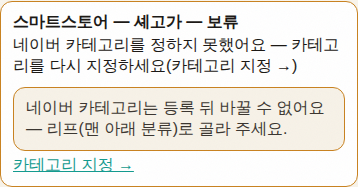
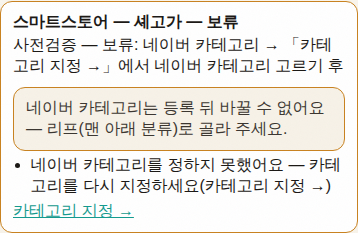
Y7-B: 카테고리 보류를 준비 보류 목록에 합침 — 번역 보류와 같이 보여 자동 번역이 막히지 않게 · 옛 최상위 표를 박던 계약 3건 갱신
전체 스위트 1차(a96c21eb) 5 failed:
- test_x_woojoo_canary 2건: 카테고리 보류가 먼저 return해 「번역하고 다시 검증」 자동 번역이 안 돌았다 → readiness_holds에 합침(카테고리만이면 사유코드 category_unset/not_leaf, 링크 「카테고리 지정 →」)
- test_uploaders 2건·test_verify_market_connections 1건: 옛 CATEGORY_MAP(최상위 ID)을 박던 계약 / 카테고리 없는 픽스처 → 오너 지정 리프로

Claude-Session: https://claude.ai/code/session_01PxGVkp5f6YphwkqMwzi5ZE

diff --git a/src/seller_console/upload_dispatcher.py b/src/seller_console/upload_dispatcher.py
@@ -694,6 +694,8 @@ def readiness_message(holds: List[Dict[str, str]]) -> str:
         fixes.append("편집 화면에서 판매가 직접 입력")
     if any(h["fix"] == "ship_ratio" for h in holds):
         fixes.append("원가·크기를 확인하거나 「그래도 등록」")
+    if any(h["fix"] == "naver_category" for h in holds):
+        fixes.append("「카테고리 지정 →」에서 네이버 카테고리 고르기")
     if any(h["fix"] == "rep_image" for h in holds):
         fixes.append("「쿠팡 노출」 탭에서 대표 사진을 바꾸거나 「그래도 등록」")
     if any(h["fix"] == "voltage" for h in holds):
@@ -709,6 +711,8 @@ def readiness_hint(holds: List[Dict[str, str]]) -> str:
         out.append("외화 원가는 편집 화면 ‘원화로 환산’ 버튼으로 원화 판매가를 채울 수도 있어요.")
     if any(h["fix"] == "translate" for h in holds):
         out.append("편집 화면의 「한국어 번역」을 누르거나 값을 직접 넣어 주세요.")
+    if any(h["fix"] == "naver_category" for h in holds):
+        out.append("네이버 카테고리는 등록 뒤 바꿀 수 없어요 — 리프(맨 아래 분류)로 골라 주세요.")
     return " ".join(out)
 
 
@@ -867,6 +871,17 @@ class UploadDispatcher:
             price = float(price_raw) if price_raw not in (None, "") else None
         except (TypeError, ValueError):
             price = None
+        # Y7-B: 네이버 리프 카테고리 — 못 정했거나 리프가 아니면 보류(번역 등 다른 보류와 **같이** 보인다 —
+        #   먼저 막아 버리면 「번역하고 다시 검증」 자동 번역이 돌지 않는다). 등록 업로더도 같은 판정을 한 번 더 한다.
+        if market == "smartstore":
+            try:
+                from src.uploaders import naver_categories as _ncat
+                from .market_cred_view import current_naver_account as _cna_r
+                _nch = _ncat.hold(pd, account=_cna_r() or "")
+            except Exception:
+                _nch = None
+            if _nch:
+                holds.append({"short": "네이버 카테고리", "fix": "naver_category", "code": _nch["code"], "line": _nch["line"]})
         if price is None or price <= 0:
             holds.append({"short": "판매가 없음", "fix": "pc",
                           "line": "판매가가 0이거나 비어 있어요 — 원가를 읽어야 판매가를 낼 수 있어요"
@@ -1010,14 +1025,6 @@ class UploadDispatcher:
                         market=market, ok=False, hold=True, error_code="smartstore_limit_full",
                         message=f"보류: 스토어 한도 — {_lim['limit']:,} 도달 ({_lim['text']}) · 다른 마켓은 그대로 진행돼요",
                         hint="스토어당 판매중·판매대기·품절 합계 1,000이 상한이에요 — 자리가 생기면 다시 사전검증해 주세요.")
-            # Y7-B: 리프 카테고리 — 못 정했거나 리프가 아니면 보내지 않는다(등록과 같은 판정 `naver_categories.hold`).
-            from src.uploaders import naver_categories as _ncat
-            _nch = _ncat.hold(product_data, account=_st or "")
-            if _nch:
-                return PrevalidationResult(market=market, ok=False, hold=True, error_code=_nch["code"], message=_nch["line"],
-                                           fixes=["naver_category"],
-                                           action_url=_ncat.picker_url(str(product_data.get("item_id") or "")),
-                                           hint="네이버 카테고리는 등록 뒤 바꿀 수 없어요 — 리프(맨 아래 분류)로 골라 주세요.")
             # Y7: 조합형 옵션 — 축 2개·조합 상한을 넘으면 보내지 않는다(등록과 같은 판정 `naver_options.limit_hold`).
             from src.uploaders.naver_options import limit_hold as _ol, REASON_LIMIT as _OL
             _olh = _ol(product_data)
@@ -1131,12 +1138,20 @@ class UploadDispatcher:
         #   못 채웠으면 「막힘」이 아니라 **보류**(보강·번역하면 풀린다)로 말하고 등록 버튼은 열리지 않는다.
         holds = self.readiness_holds(product_data, market)
         if holds:
+            # Y7-B: 카테고리 보류만 있으면 그 사유코드(category_unset·category_not_leaf) · 「카테고리 지정 →」 링크
+            _cat = [h for h in holds if h.get("fix") == "naver_category"]
+            _url = ""
+            if _cat:
+                from src.uploaders.naver_categories import picker_url as _pick_url
+                _url = _pick_url(str(product_data.get("item_id") or ""))
             return PrevalidationResult(
-                market=market, ok=False, error_code="missing_field", hold=True,
+                market=market, ok=False, hold=True,
+                error_code=(_cat[0]["code"] if _cat and len(holds) == 1 else "missing_field"),
                 message=readiness_message(holds),
                 hint=readiness_hint(holds),
                 details=[h["line"] for h in holds],
                 fixes=list(dict.fromkeys(h.get("fix", "") for h in holds if h.get("fix"))),
+                action_url=_url,
             )
 
         # 이미지 URL 접근성 (첫 번째 이미지만 HEAD 체크, 타임아웃 3초)
@@ -1269,9 +1284,10 @@ class UploadDispatcher:
         # U0b: 스마트스토어 미승인·한도 꽉 참·고단가 기준 미달은 사전검증과 **같은 판정**으로 전송 전 보류(직접 호출 우회 0).
         if market == "smartstore":
             _pv = self._prevalidate_market(product_data, market)
-            if not _pv.ok and _pv.error_code in ("smartstore_token_failed", "smartstore_limit_full",
-                                                 "smartstore_price_floor", "option_limit",
-                                                 "category_not_leaf", "category_unset"):
+            if not _pv.ok and (_pv.error_code in ("smartstore_token_failed", "smartstore_limit_full",
+                                                  "smartstore_price_floor", "option_limit",
+                                                  "category_not_leaf", "category_unset")
+                               or "naver_category" in (_pv.fixes or [])):
                 return UploadResult(market=market, success=False, error_code=_pv.error_code,
                                     message=f"전송 전에 보류했습니다 — {_pv.message}", hint=_pv.hint,
                                     action_url=_pv.action_url)

diff --git a/tests/test_y7b_naver_category.py b/tests/test_y7b_naver_category.py
@@ -157,15 +157,29 @@ def test_prevalidate_holds_before_naver(monkeypatch, tree):
     from src.seller_console import smartstore_routing as SR
     monkeypatch.setattr(UD, "smartstore_approved", lambda store="": True)
     monkeypatch.setattr(SR, "price_hold", lambda pd: "")
+    monkeypatch.setenv("NAVER_CLIENT_ID", "id")
+    monkeypatch.setenv("NAVER_CLIENT_SECRET", "sec")
+    monkeypatch.setenv("NAVER_IMAGE_UPLOAD", "0")
     pv = UD.UploadDispatcher()._prevalidate_market(_pleats(), "smartstore")
-    assert pv.hold and pv.error_code == "category_unset" and pv.fixes == ["naver_category"]
+    assert pv.hold and pv.error_code == "category_unset" and pv.fixes == ["naver_category"], pv
+    assert "카테고리를 다시 지정하세요(카테고리 지정 →)" in " ".join(pv.details)
     assert pv.action_url == "/seller/collect/it-1/naver-category"
     pv2 = UD.UploadDispatcher()._prevalidate_market(_pleats(naver_category_id=PARENT), "smartstore")
     assert pv2.error_code == "category_not_leaf"
     r = UD.UploadDispatcher()._dispatch_one(_pleats(), "smartstore")
     assert r.success is False and r.error_code == "category_unset" and r.action_url.endswith("/naver-category")
     ok = UD.UploadDispatcher()._prevalidate_market(_pleats(naver_category_id=LEAF), "smartstore")
-    assert ok.error_code not in ("category_unset", "category_not_leaf")
+    assert ok.error_code not in ("category_unset", "category_not_leaf") and "naver_category" not in ok.fixes
+
+
+def test_category_hold_shows_with_translation_hold(monkeypatch, tree):
+    """카테고리 보류가 다른 보류(옵션 미해석)를 가리지 않는다 — 함께 보여야 「번역하고 다시 검증」이 돈다."""
+    from src.seller_console import upload_dispatcher as UD
+    holds = UD.UploadDispatcher.readiness_holds(_pleats(options=[{"name": "颜色分类", "values": ["奇异色上衣"]}],
+                                                        skus=[{"sku_id": "1", "spec": ["奇异色上衣"], "sell_price_krw": 52000}]),
+                                               "smartstore")
+    fixes = [h["fix"] for h in holds]
+    assert "naver_category" in fixes and "translate" in fixes
 
 
 @pytest.fixture

diff --git a/tests/test_uploaders.py b/tests/test_uploaders.py
@@ -399,9 +399,11 @@ class TestNaverPrepareProduct:
         assert result['price'] >= 12005
 
     def test_category_mapped(self, naver_uploader):
-        collected = dict(SAMPLE_COLLECTED, category_code='BTY')
-        result = naver_uploader.prepare_product(collected)
-        assert result['category_id'] == '50000002'
+        # Y7-B(2026-10-08): 옛 표(BTY→50000002 등)는 전부 최상위 카테고리라 네이버가 NotValid로 거부했다 — 지웠다.
+        #   prepare는 오너가 지정한 네이버 리프만 싣고, 없으면 비운다(compose가 정본 사전 매칭, 못 정하면 보류).
+        assert naver_uploader.prepare_product(dict(SAMPLE_COLLECTED, category_code='BTY'))['category_id'] == ''
+        picked = naver_uploader.prepare_product(dict(SAMPLE_COLLECTED, naver_category_id='50000805'))
+        assert picked['category_id'] == '50000805'
 
     def test_delivery_days(self, naver_uploader):
         result = naver_uploader.prepare_product(SAMPLE_COLLECTED)
@@ -441,7 +443,8 @@ class TestNaverGetAccessToken:
 
 class TestNaverUploadProduct:
     def test_upload_product_success(self, naver_uploader):
-        prepared = naver_uploader.prepare_product(SAMPLE_COLLECTED)
+        # Y7-B: 「무선 블루투스 이어폰」은 정본 사전 매칭에 없다 → 오너가 고른 리프로(못 정하면 등록 전 보류)
+        prepared = naver_uploader.prepare_product(dict(SAMPLE_COLLECTED, naver_category_id='50000805'))
         # 이미지는 **네이버 CDN 업로드**를 거친다(P5 정본) — 이 테스트는 등록 페이로드 관심사라 목킹.
         with patch.object(naver_uploader, 'upload_images',
                           return_value={'ok': True, 'urls': ['https://shop-phinf.naver.net/a.jpg'],

diff --git a/tests/test_verify_market_connections.py b/tests/test_verify_market_connections.py
@@ -31,7 +31,9 @@ class TestPrevalidateEnvAliases:
 
     def _prevalidate(self, market):
         from src.seller_console.upload_dispatcher import UploadDispatcher
-        prod = {"title": "T", "sell_price_krw": 19900, "price": 19900, "currency": "KRW", "images": ["/seller/static/icon-512.png"]}
+        # Y7-B: 스마트스토어는 네이버 리프 카테고리가 정해져야 통과 — 이 계약은 env 이름 별칭만 본다
+        prod = {"title": "T", "sell_price_krw": 19900, "price": 19900, "currency": "KRW", "images": ["/seller/static/icon-512.png"],
+                "naver_category_id": "50000805"}
         return UploadDispatcher().prevalidate(prod, [market])[0]
 
     def test_woocommerce_accepts_woo_names(self, monkeypatch):
